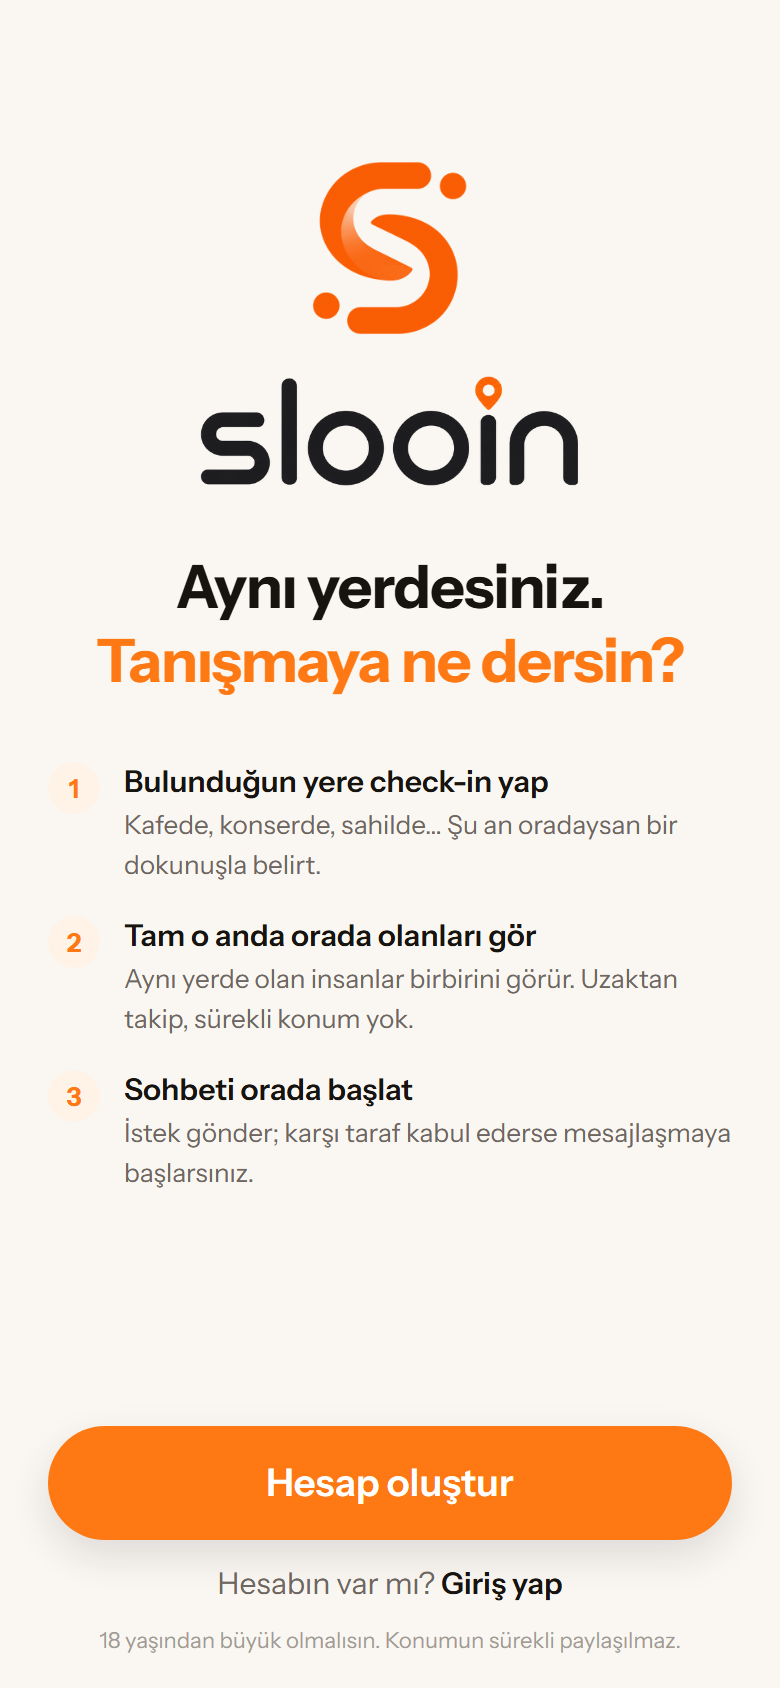
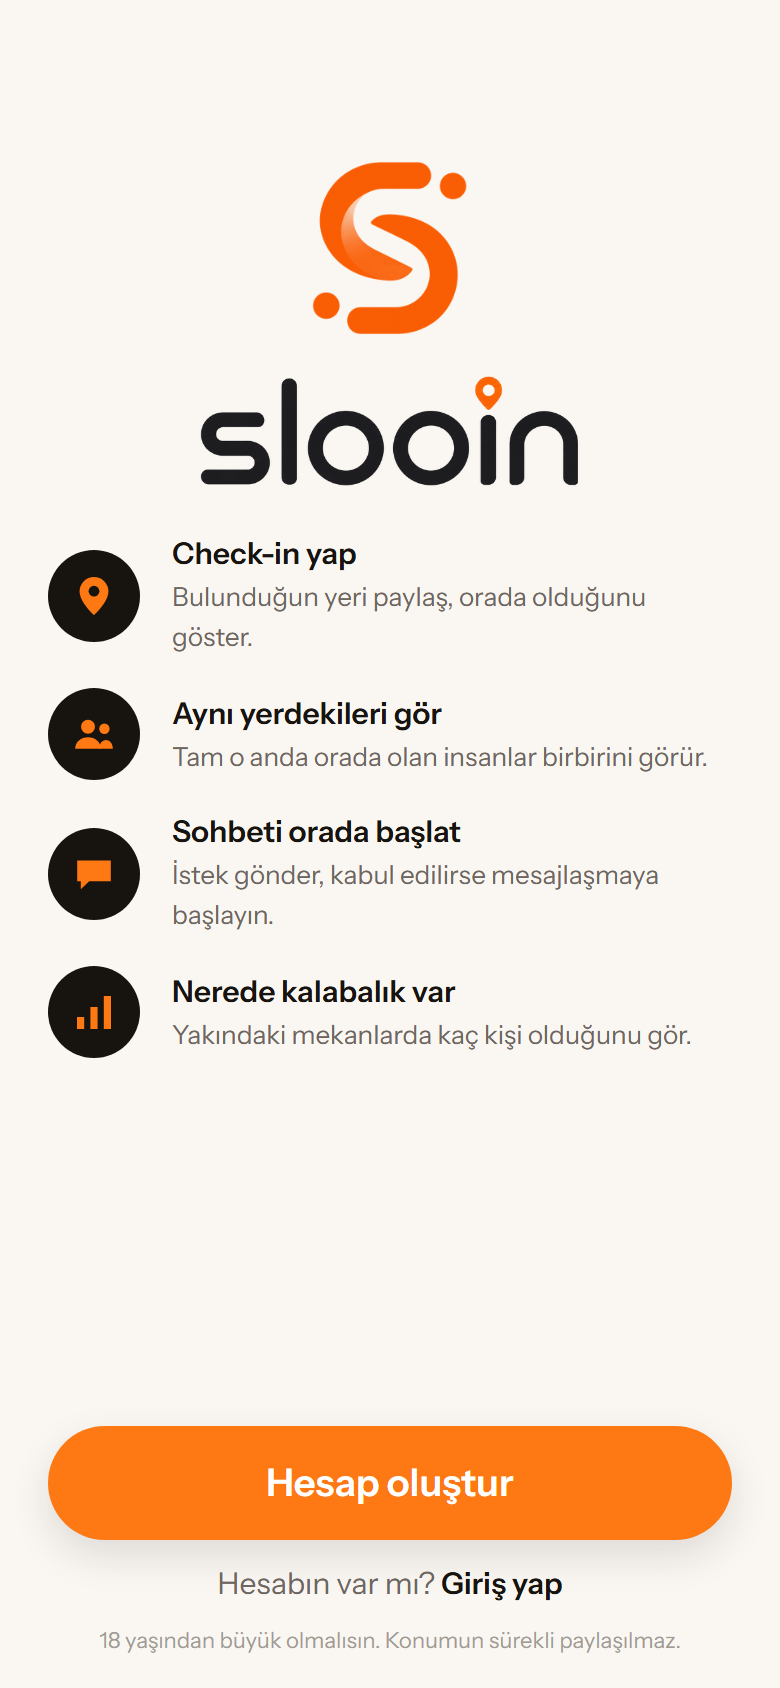
feat(tasarim): acilis ekraninda ikonlu ozellik listesi, slogan kaldirildi
Kullanicinin verdigi ornege gore (2026-08-25): koyu daire icinde
turuncu ikon, yaninda kisa baslik ve tek satirlik aciklama. Numarali
liste yerine dort ozellik: check-in, ayni yerdekileri gorme, sohbet ve
yogunluk.

Slogan ('Ayni yerdesiniz. Tanismaya ne dersin?') ve altindaki paragraf
kullanicinin karariyla kaldirildi; ozellik listesi zaten ayni seyi
somut olarak soyluyordu.

Ikon sekilleri DOLGU, cizgi degil: 46 px'lik dairenin icinde ince cizgi
kayboluyordu.

49 paket / 416 test yesil.

Changed region(s): [[0.0615, 0.3081, 0.9231, 0.7085]]

diff --git a/mobil/src/app/(auth)/karsilama.tsx b/mobil/src/app/(auth)/karsilama.tsx
@@ -1,5 +1,6 @@
 import { View, Text, Pressable, StyleSheet } from 'react-native'
 import { useRouter } from 'expo-router'
+import Svg, { Path, Circle } from 'react-native-svg'
 import { useDil } from '../../../lib/dil'
 import { ilkAcilisiIsaretle } from '../../../lib/ilk-acilis'
 import { renk, yazi, olcek, bosluk, yuvarlak, golge } from '../../tasarim/tema'
@@ -31,6 +32,59 @@ import { MarkaYazisi } from '../../tasarim/MarkaYazisi'
  * KVKK ispat kaydi hesabin olustugu anda yaziliyor. Bu ekran yalnizca
  * uygulamanin ne oldugunu anlatiyor; bir taahhut istemiyor.
  */
+/**
+ * Acilis ekranindaki ozellik ikonlari.
+ *
+ * Kullanicinin verdigi ornekteki gibi: KOYU daire icinde TURUNCU sekil.
+ * Sekiller dolgu (stroke degil) - kucuk dairenin icinde ince cizgi
+ * kayboluyordu.
+ */
+function OzellikIkonu({ ad }: { ad: 'konum' | 'kisiler' | 'sohbet' | 'yogunluk' }) {
+  const R = renk.turuncu
+  return (
+    <View style={stiller.ikonDairesi}>
+      <Svg width={24} height={24} viewBox="0 0 24 24">
+        {ad === 'konum' && (
+          <>
+            <Path
+              d="M12 2.5a7.2 7.2 0 0 0-7.2 7.2c0 5.4 7.2 11.8 7.2 11.8s7.2-6.4 7.2-11.8A7.2 7.2 0 0 0 12 2.5z"
+              fill={R}
+            />
+            <Circle cx={12} cy={9.6} r={2.7} fill={renk.metin} />
+          </>
+        )}
+        {ad === 'kisiler' && (
+          <>
+            <Circle cx={9} cy={8.4} r={3.5} fill={R} />
+            <Path d="M2.6 19.4c0-3.5 2.9-5.8 6.4-5.8s6.4 2.3 6.4 5.8z" fill={R} />
+            <Circle cx={17.2} cy={9.4} r={2.6} fill={R} />
+            <Path d="M14.6 19.4c0-2.6 1.4-4.4 3.4-4.4 2 0 3.4 1.8 3.4 4.4z" fill={R} />
+          </>
+        )}
+        {ad === 'sohbet' && (
+          <Path
+            d="M3.6 5.2h16.8v10.4H9.6L5.4 19.6v-4h-1.8z"
+            fill={R}
+            strokeLinejoin="round"
+          />
+        )}
+        {ad === 'yogunluk' && (
+          <>
+            <Path d="M3.5 20.5h3.6v-6H3.5zM10.2 20.5h3.6V9.5h-3.6zM16.9 20.5h3.6V4h-3.6z" fill={R} />
+          </>
+        )}
+      </Svg>
+    </View>
+  )
+}
+
+const OZELLIKLER = [
+  { no: 1, ikon: 'konum' },
+  { no: 2, ikon: 'kisiler' },
+  { no: 3, ikon: 'sohbet' },
+  { no: 4, ikon: 'yogunluk' },
+] as const
+
 export default function KarsilamaEkrani() {
   const router = useRouter()
   const { t } = useDil()
@@ -46,25 +100,18 @@ export default function KarsilamaEkrani() {
             kelime markasi. Ikisi birlikte bir kilit olusturuyor. */}
         <MarkaIsareti zemin="acik" boyut={104} />
         <MarkaYazisi genislik={190} style={stiller.markaYazisi} />
-        <Text style={stiller.baslik}>
-          {t('karsilama.baslikBirinci')}
-          {'\n'}
-          <Text style={stiller.baslikVurgu}>{t('karsilama.baslikIkinci')}</Text>
-        </Text>
-        {/* Eskiden burada bir paragraf vardi; uc adim eklenince ayni
-            seyi iki kez soyluyorduk ("check-in yap, orada olanlari
-            gor"). Adimlar daha somut, paragraf kaldirildi. */}
+        {/* Slogan ve altindaki paragraf KALDIRILDI (kullanicinin karari,
+            2026-08-25). Uygulamayi anlatan tek yer asagidaki ozellik
+            listesi; slogan onun soyledigini bir kez daha soyluyordu. */}
       </View>
 
-      {/* Uc adim: uygulamanin ne oldugunu anlatan tek yer. Numaralar
-          susleme degil, gercek bir sira - check-in olmadan kimseyi
-          gormuyorsun, gormeden de sohbet baslamiyor. */}
+      {/* Uygulamanin ne yaptigini anlatan tek yer. Kullanicinin verdigi
+          ornekteki duzen: koyu daire icinde turuncu ikon, yaninda kisa
+          baslik ve tek satirlik aciklama. */}
       <View style={stiller.adimlar}>
-        {[1, 2, 3].map((no) => (
+        {OZELLIKLER.map(({ no, ikon }) => (
           <View key={no} style={stiller.adim}>
-            <View style={stiller.adimNo}>
-              <Text style={stiller.adimNoYazi}>{no}</Text>
-            </View>
+            <OzellikIkonu ad={ikon} />
             <View style={stiller.adimOrta}>
               <Text style={stiller.adimBaslik}>{t(`karsilama.adim${no}Baslik`)}</Text>
               <Text style={stiller.adimMetin}>{t(`karsilama.adim${no}Metin`)}</Text>
@@ -112,20 +159,15 @@ const stiller = StyleSheet.create({
 
   markaYazisi: { marginTop: bosluk.m },
 
-  adimlar: { marginTop: bosluk.xxl, gap: bosluk.l },
-  adim: { flexDirection: 'row', alignItems: 'flex-start', gap: bosluk.m },
-  adimNo: {
-    width: 26,
-    height: 26,
-    borderRadius: 13,
-    backgroundColor: renk.turuncuZemin,
+  adimlar: { marginTop: bosluk.xl, gap: bosluk.l },
+  adim: { flexDirection: 'row', alignItems: 'center', gap: bosluk.l },
+  ikonDairesi: {
+    width: 46,
+    height: 46,
+    borderRadius: 23,
+    backgroundColor: renk.metin,
     alignItems: 'center',
     justifyContent: 'center',
-  },
-  adimNoYazi: {
-    fontFamily: yazi.ekranBasligi,
-    fontSize: olcek.kucuk,
-    color: renk.turuncu,
   },
   adimOrta: { flex: 1 },
   adimBaslik: {

diff --git a/mobil/lib/ceviriler/tr.ts b/mobil/lib/ceviriler/tr.ts
@@ -25,14 +25,15 @@ export default {
     aciklama:
       'Bulunduğun yere check-in yap, tam o anda orada olan başka insanları gör. Konum paylaşımı check-in yaptığın süreyle sınırlı.',
     dilEtiket: 'Dil',
-    // Uc adim, gercek bir SIRA: once check-in, sonra orada olanlari
-    // gormek, sonra sohbet. Numaralandirma bu yuzden mesru.
-    adim1Baslik: 'Bulunduğun yere check-in yap',
-    adim1Metin: 'Kafede, konserde, sahilde… Şu an oradaysan bir dokunuşla belirt.',
-    adim2Baslik: 'Tam o anda orada olanları gör',
-    adim2Metin: 'Aynı yerde olan insanlar birbirini görür. Uzaktan takip, sürekli konum yok.',
+    // Dort ozellik. Metinler kisa tutuldu: acilis ekrani okunmaz, taranir.
+    adim1Baslik: 'Check-in yap',
+    adim1Metin: 'Bulunduğun yeri paylaş, orada olduğunu göster.',
+    adim2Baslik: 'Aynı yerdekileri gör',
+    adim2Metin: 'Tam o anda orada olan insanlar birbirini görür.',
     adim3Baslik: 'Sohbeti orada başlat',
-    adim3Metin: 'İstek gönder; karşı taraf kabul ederse mesajlaşmaya başlarsınız.',
+    adim3Metin: 'İstek gönder, kabul edilirse mesajlaşmaya başlayın.',
+    adim4Baslik: 'Nerede kalabalık var',
+    adim4Metin: 'Yakındaki mekanlarda kaç kişi olduğunu gör.',
 
     hesapOlustur: 'Hesap oluştur',
     hesabinVarMi: 'Hesabın var mı?',
